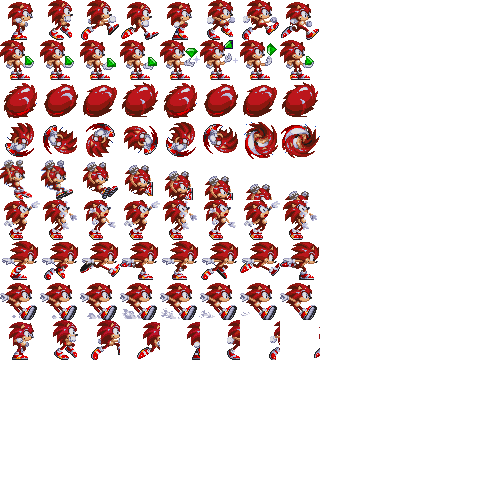
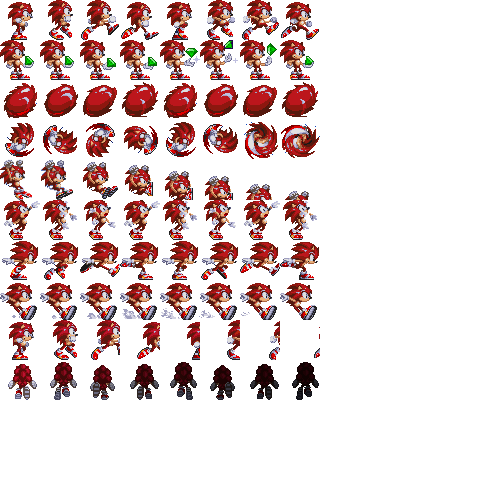
성에 들어가는 애니메이션

Changed region(s): [[0.42, 0.72, 0.66, 0.81], [0.18, 0.72, 0.39, 0.81], [0.0, 0.72, 0.15, 0.81]]

diff --git a/stage1_3.py b/stage1_3.py
@@ -493,15 +493,15 @@ class player:
                             self.x = i.right + 16
 
             elif i.kind == 6:
-                if crush(self,i)!=0:
+                if crush(self,i)==5:
                     if fg.bottom > 30 * 2.7:
                         fg.top -= 400 * game_framework.frame_time
                         fg.bottom -= 400 * game_framework.frame_time
 
             elif i.kind == 7:
-                if crush(self,i)!=0:
-                    self.y = 14 * 2.7
-                    self.x = 999 * 2.7
+                if crush(self,i)==5:
+                    self.y = 80
+                    self.x = 830
                     self.GoDown2 = True
                     self.frame = 0
 
@@ -520,9 +520,9 @@ class player:
         else:
             if self.GoDown2 == True:
                 if self.firemode == True:
-                    firesonic.clip_draw(int(self.frame) * 40, 140, 40, 40, self.x, self.y, self.size, self.size)
+                    firesonic.clip_draw(int(self.frame) * 40, 100, 40, 40, self.x, self.y, self.size, self.size)
                 else:
-                    sonic_sprite.clip_draw(int(self.frame) * 40, 140, 40, 40, self.x, self.y, self.size, self.size)
+                    sonic_sprite.clip_draw(int(self.frame) * 40, 100, 40, 40, self.x, self.y, self.size, self.size)
                 if self.frame > 7:
                     delay(0.2)
                     if self.GoDown2 == 1:
@@ -899,6 +899,8 @@ def crush(A,B):
         return 4
     if A.top > B.top and A.bottom-1 < B.top and A.right > B.left and A.left < B.right:
         return 3
+    if A.top > B.bottom and A.bottom < B.top and A.right > B.left and A.left < B.right:
+        return 5
     return 0
 
 def backmove():
@@ -973,11 +975,11 @@ def enter():
 def exit():
     global sonic, b,wm, ite,fg
     global WIDTH, HEIGHT, frame, x, y, money, point
-    global sonic_sprite, stage1_2, num, score,star, it, coin, firesonic, brick,flag_png
+    global sonic_sprite, stage1_3, num, score,star, it, coin, firesonic, brick,flag_png
 
     del(fg)
     del(sonic_sprite)
-    del(stage1_2)
+    del(stage1_3)
     del(sonic)
     del(b)
     del(num)
